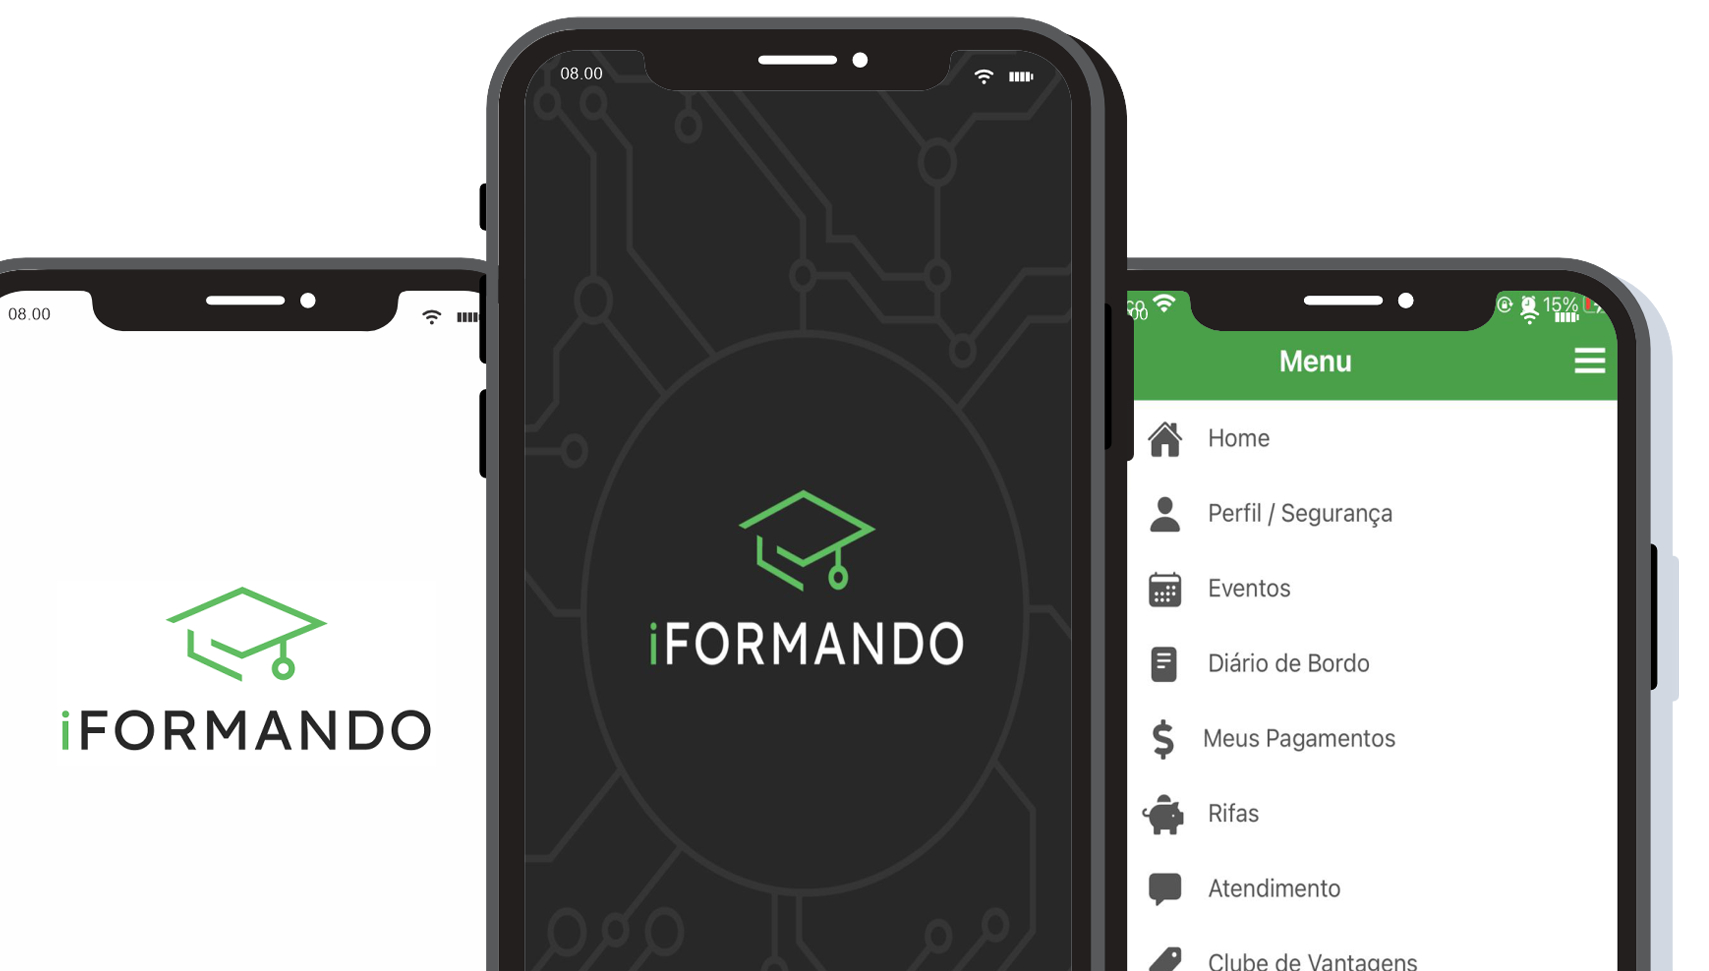
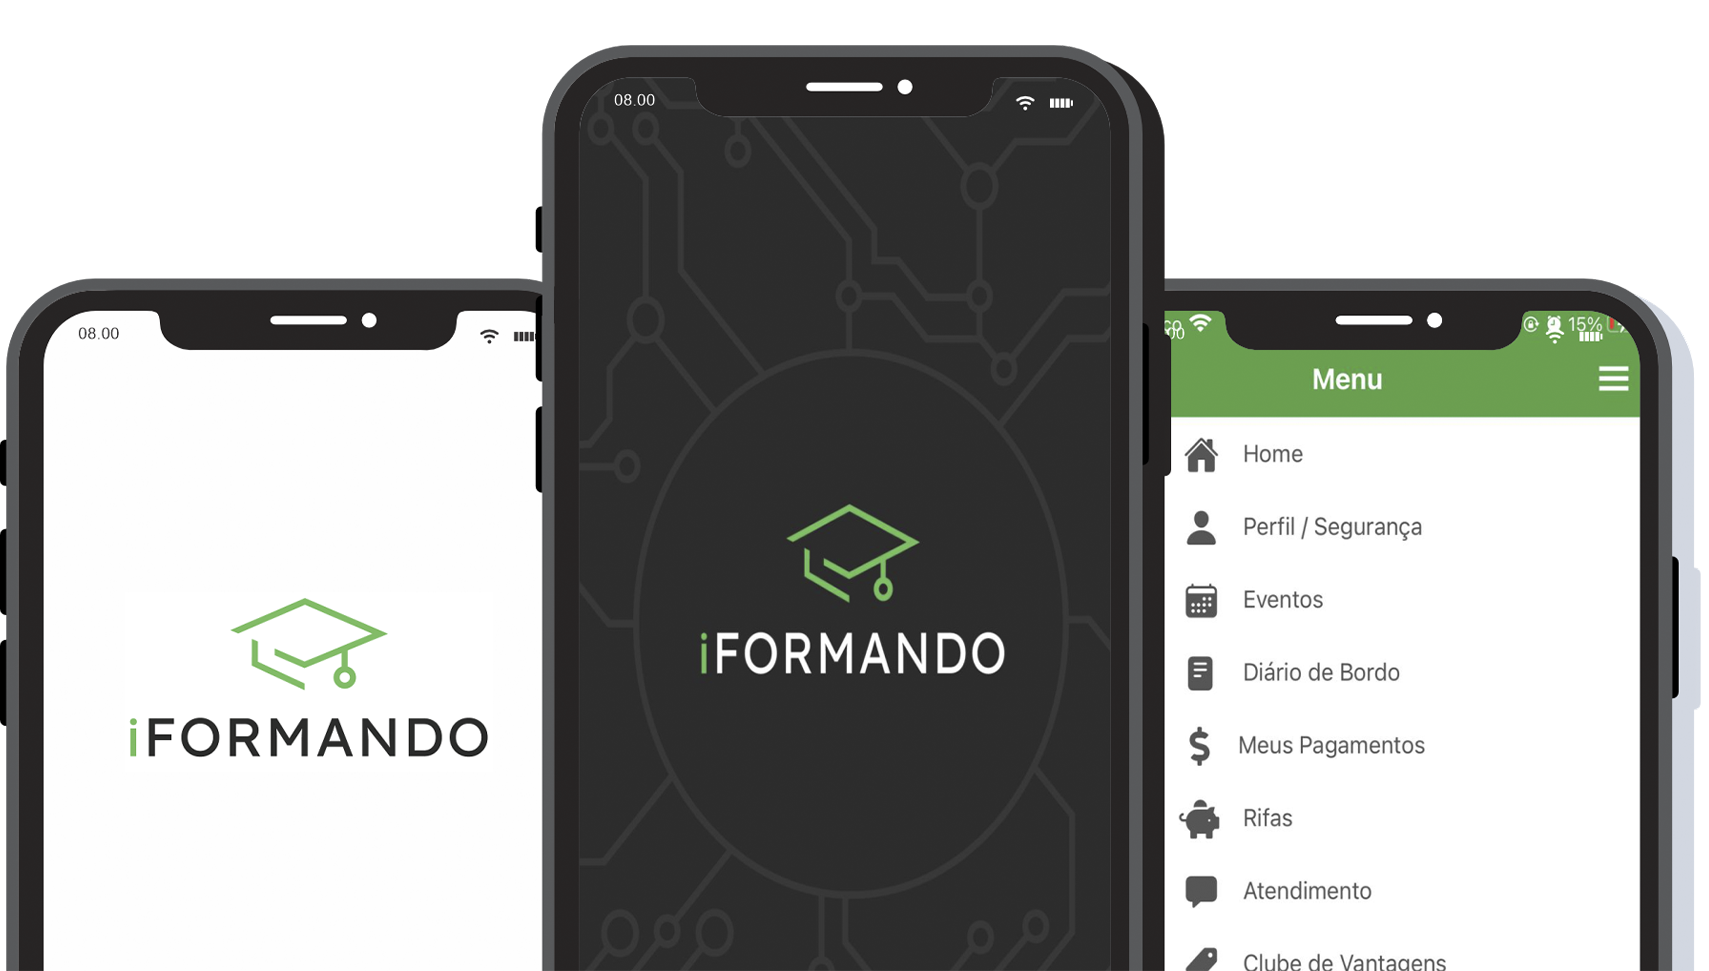
alterações posição

Changed region(s): [[0.0, 0.0, 1.0, 1.0], [0.3721, 0.4943, 0.5892, 0.7106]]

diff --git a/index.html b/index.html
@@ -78,25 +78,28 @@
             <span class="forma"> " </span>
 
             <div class="slide conteudo">
-                <img class="imagem-inicial" src="img/img-rediA.png" alt="modelo">
-                <p id="valor-clientes" data-aos="fade-left" data-aos-duration="3000"> Há 17 anos, a <span>empresa líder</span> em clientes satisfeitos!</p>
+                <div class="modelo">
+                    <img class="imagem-inicial" src="img/img-slide/modelo.png" alt="modelo">
+                </div>
+                <div class="text-slider">
+                    <p id="valor-clientes" data-aos="fade-left" data-aos-duration="3000"> Há 17 anos, a <span>empresa líder</span> em clientes satisfeitos!</p>
+                </div>
             </div>
 
             <div class="slide conteudo">
-                <img class="imagem-inicial" src="img/img-redi.png" alt="modelo">
-                <p id="valor-clientes" data-aos="fade-left" data-aos-duration="3000"> Há 17 anos, a <span>empresa líder</span> em clientes satisfeitos!</p>
-            </div>
-
-            <div class="slide conteudo">
-                <img class="imagem-inicial" src="img/img-rediA.png" alt="modelo">
-                <p id="valor-clientes" data-aos="fade-left" data-aos-duration="3000"> Há 17 anos, a <span>empresa líder</span> em clientes satisfeitos!</p>
+                <div class="modelo">
+                    <img class="imagem-inicial" src="img/img-slide/modelo.png" alt="modelo">
+                </div>
+                <div class="text-slider">
+                    <p id="valor-clientes" data-aos="fade-left" data-aos-duration="3000"> Há 17 anos, a <span>empresa líder</span> em clientes satisfeitos!</p>
+                </div>
             </div>
 
             <div class="navigation-auto">
                 <div class="auto-btn1"></div>
                 <div class="auto-btn2"></div>
                 <div class="auto-btn3"></div>
-                <div class="auto-btn4"></div>
+                
             </div>
         </div>
 
@@ -104,7 +107,7 @@
             <label for="radio1" class="manual-btn"></label>
             <label for="radio2" class="manual-btn"></label>
             <label for="radio3" class="manual-btn"></label>
-            <label for="radio4" class="manual-btn"></label>
+           
         </div>
 
     </section>
@@ -131,44 +134,6 @@
             </div>
             <p>Sonhos realizados</p>
         </div>
-    </section>
-
-    <section id="diferencial"> 
-        <div>
-            <ul>
-                <li data-aos="fade-right" data-aos-duration="3000"> <i class="fa-solid fa-cog fa-spin" style="--fa-animation-direction: reverse;"></i> Assessoria continuada</li>
-                <p data-aos="fade-left" data-aos-duration="3000">Acompanhamento com profissionais da área de eventos do planejamento à execução do seu projeto de
-                    formatura</p>
-                <li data-aos="fade-right" data-aos-duration="3000"> <i class="fa-solid fa-stopwatch fa-shake" style="--fa-animation-direction: reverse;"></i> Aplicativo de gestão</li>
-                <p data-aos="fade-left" data-aos-duration="3000">Acompanhamento da sua formatura ficou muito mais fácil e ágil!</p>
-            </ul>
-        </div>
-        <div class="foto_diferencial" data-aos="fade-left" data-aos-duration="3000">
-            <img src="img/moca.png">
-        </div>
-    </section>
-
-    <section id="pre-evento">
-        <h1>Pré-evento</h1>
-
-        <div id="carrossel-pre" data-aos="zoom-in" data-aos-duration="3000">
-            <input type="radio" name="position" />
-            <input type="radio" name="position" />
-            <input type="radio" name="position" checked />
-            <input type="radio" name="position" />
-            <input type="radio" name="position" />
-            <main id="carousel">
-                <div class="item"></div>
-                <div class="item"></div>
-                <div class="item"></div>
-                <div class="item"></div>
-                <div class="item"></div>
-                <main>
-        </div>
-    </section>
-
-    <section class="container-feedback">
-        <h1>Festas pré-formatura</h1>
     </section>
 
     <section class="cards-feedbacks">
@@ -211,6 +176,45 @@
 
 
     </section>
+
+    <section id="diferencial"> 
+        <div>
+            <ul>
+                <li data-aos="fade-right" data-aos-duration="3000"> <i class="fa-solid fa-cog fa-spin" style="--fa-animation-direction: reverse;"></i> Assessoria continuada</li>
+                <p data-aos="fade-left" data-aos-duration="3000">Acompanhamento com profissionais da área de eventos do planejamento à execução do seu projeto de
+                    formatura</p>
+                <li data-aos="fade-right" data-aos-duration="3000"> <i class="fa-solid fa-stopwatch fa-shake" style="--fa-animation-direction: reverse;"></i> Aplicativo de gestão</li>
+                <p data-aos="fade-left" data-aos-duration="3000">Acompanhamento da sua formatura ficou muito mais fácil e ágil!</p>
+            </ul>
+        </div>
+        <div class="foto_diferencial" data-aos="fade-left" data-aos-duration="3000">
+            <img src="img/img-slide/modelo.png">
+        </div>
+    </section>
+
+    <section id="pre-evento">
+        <h1>Pré-evento</h1>
+
+        <div id="carrossel-pre" data-aos="zoom-in" data-aos-duration="3000">
+            <input type="radio" name="position" />
+            <input type="radio" name="position" />
+            <input type="radio" name="position" checked />
+            <input type="radio" name="position" />
+            <input type="radio" name="position" />
+            <main id="carousel">
+                <div class="item"></div>
+                <div class="item"></div>
+                <div class="item"></div>
+                <div class="item"></div>
+                <div class="item"></div>
+                <main>
+        </div>
+    </section>
+
+    <section class="container-feedback">
+        <h1>Festas pré-formatura</h1>
+    </section>
+
 
 
     <script type="text/javascript" src="js/script.js"> </script>

diff --git a/slider.css b/slider.css
@@ -65,9 +65,7 @@
     margin-left: -50%;
 }
 
-#radio4:checked ~ .first{
-    margin-left: -75%;
-}
+
 
 .navigation-auto div{
     border: 2px solid #20a6ff;
@@ -103,10 +101,6 @@
     background-color: #fff;
 }
 
-#radio4:checked ~ .navigation-auto .auto-btn4{
-    background-color: #fff;
-}
-
 .cell_app img{
     width: 600px;
     height: 300px;
@@ -128,7 +122,7 @@
     background-color: #fff;
     border-radius: 50%;
     margin-left: -250px;
-    margin-top: -190px;
+    margin-top: -300px;
     box-shadow: rgba(0, 0, 0, 0.1) 0px 4px 12px;
 }
 
@@ -137,4 +131,16 @@
     width: 450px;
     margin-top: -50px;
     margin-left: -130px;
+}
+
+.modelo img{
+    margin-top: 150px;
+    margin-left: -560px;
+    margin-right: 150px;
+    width: 400px;
+    height: 580px;
+}
+
+.text-slider{
+    width: 800px;
 }

diff --git a/css/principal.css b/css/principal.css
@@ -151,7 +151,7 @@ header nav img:hover{
 #diferencial::after{
     content: 'GLAMOUR';
     position: absolute;
-    top: 100%;
+    top: 180%;
     right: 0%;
     font-weight: 800;
     font-size: 10em;
@@ -211,7 +211,7 @@ header nav img:hover{
 .cards-feedbacks::after{
     content: '"';
     position: absolute;
-    top: 350%;
+    top: 100%;
     left: 2%;
     font-weight: 800;
     font-size: 10em;
@@ -223,7 +223,7 @@ header nav img:hover{
 .cards-feedbacks::before{
     content: '"';
     position: absolute;
-    top: 350%;
+    top: 100%;
     right: 2%;
     font-weight: 800;
     font-size: 10em;
